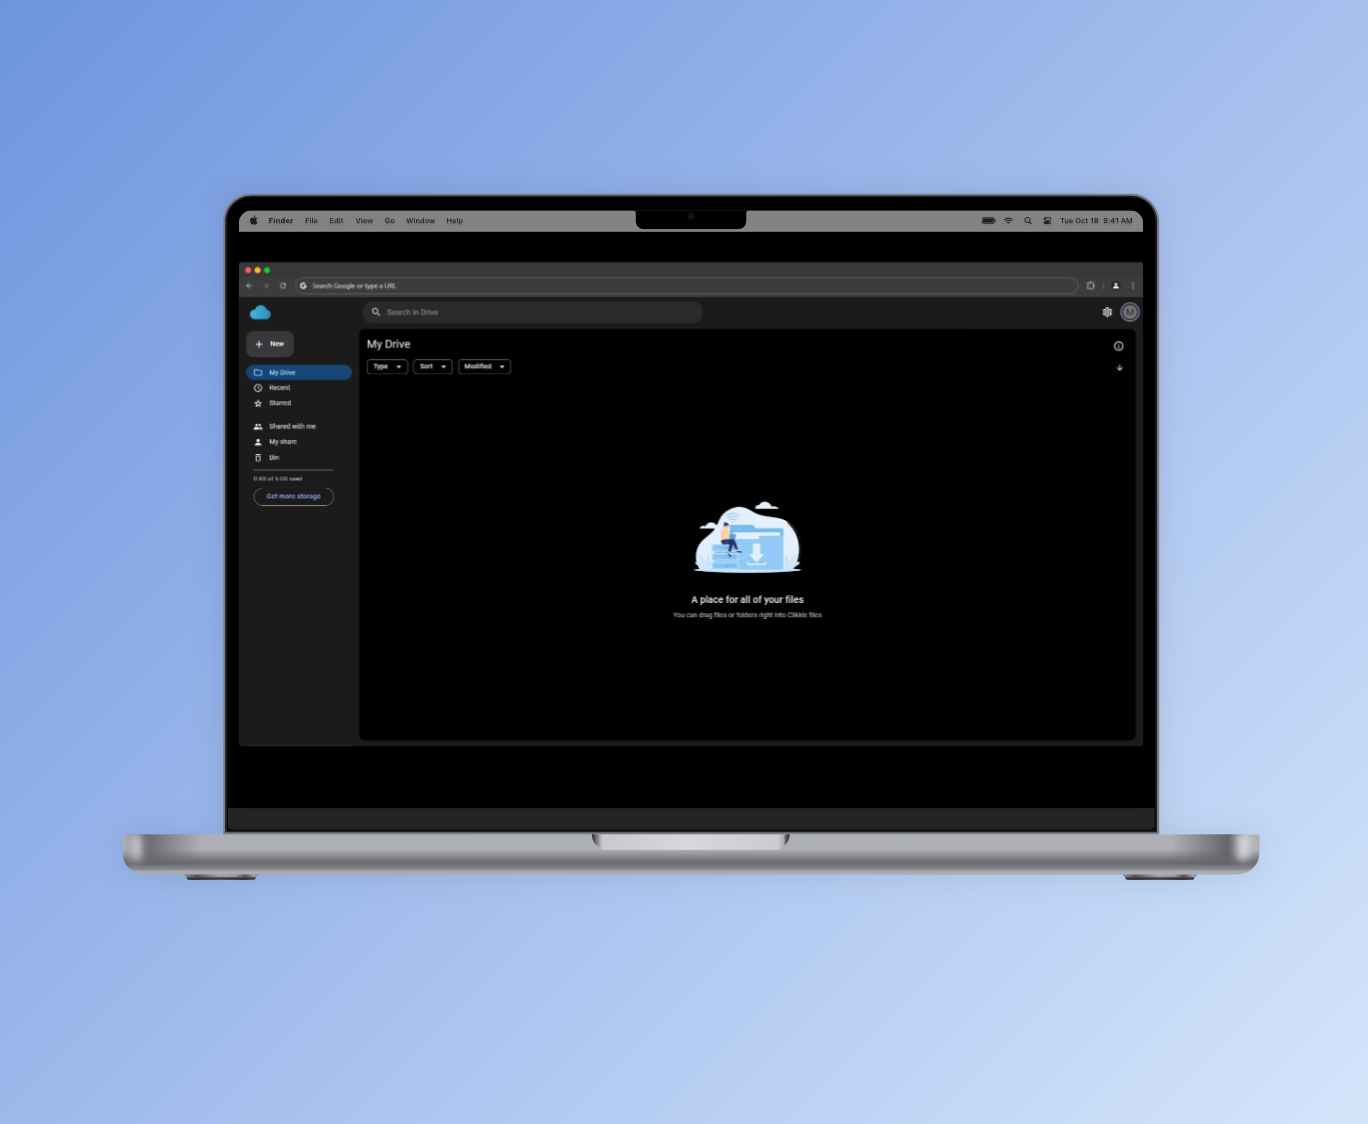
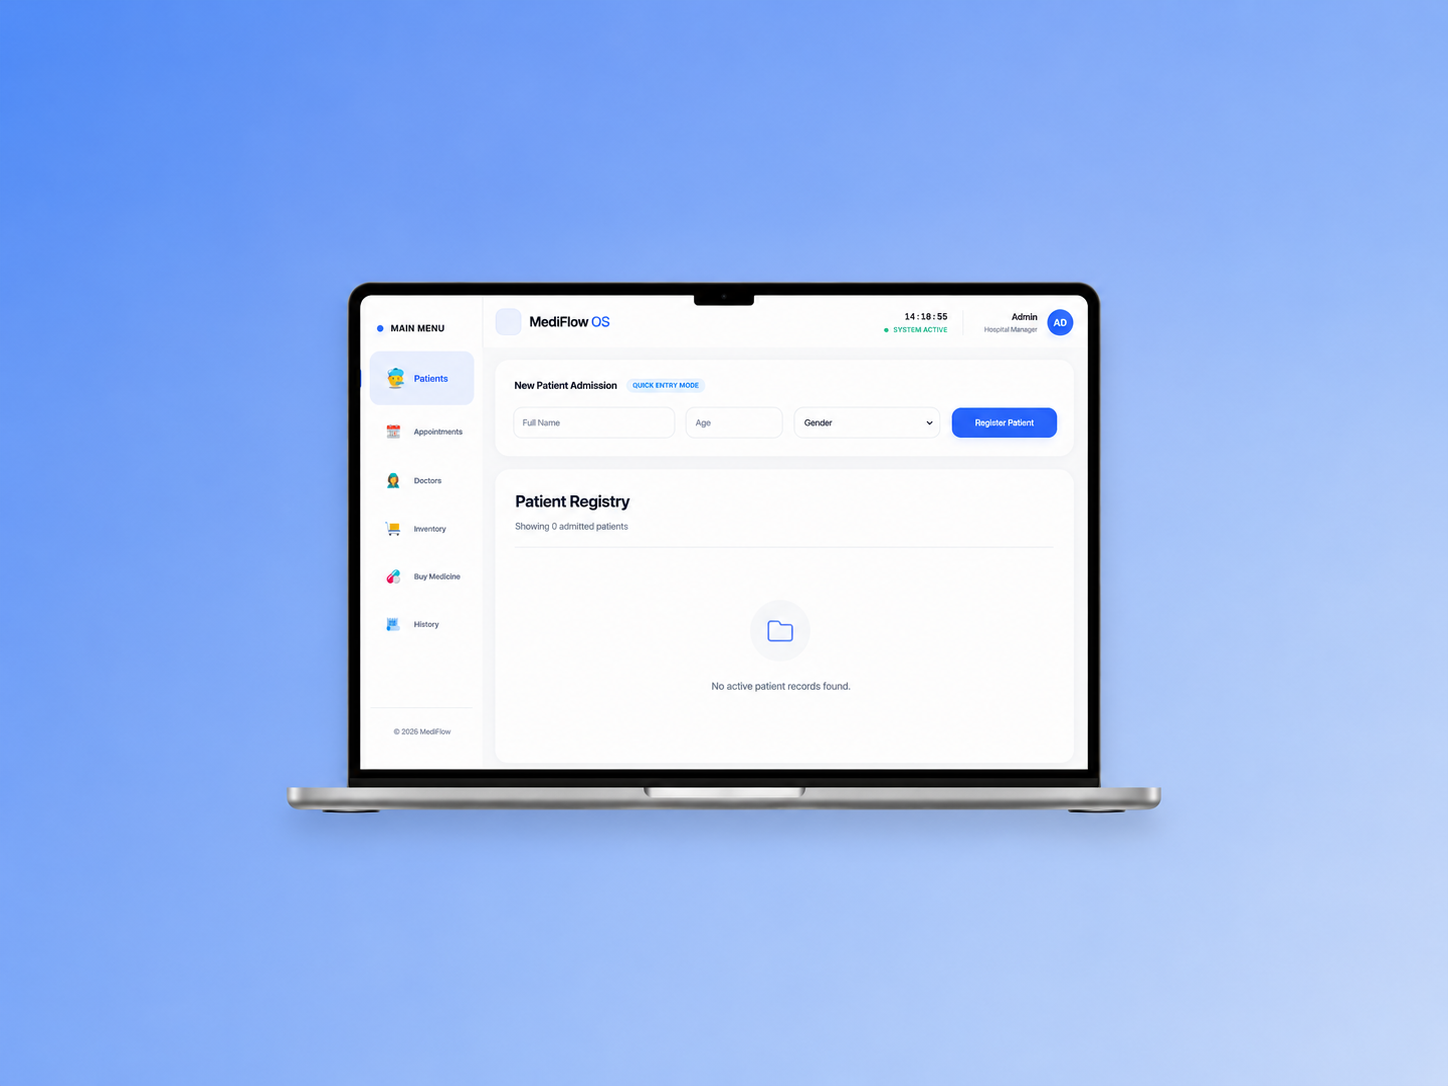
added project

diff --git a/src/comfolder/Project.jsx b/src/comfolder/Project.jsx
@@ -1,37 +1,262 @@
-import React from "react";
+import React, { useState } from "react";
 
 export default function Project() {
+const [ishoveredgithub, setIshoveredgithub] = useState(false);
+
+  function handleMouseEntergithub() {
+    setIshoveredgithub(true);
+  }
+  function handleMouseLeavegithub() {
+    setIshoveredgithub(false);
+  }
   return (
-    
-    <div className=" items-center  justify-center md:justify-center md:items-center min-w-80vw pb-25 flex overflow-x-hidden min-h-[280vh] bg-[#000000]">
-      <div className="flex mt-50 flex-col gap-15 items-center ">
-        <div className="w-md mt-14  flex flex-col items-center justify-center">
+    <div className="items-center justify-center md:justify-center md:items-center min-w-80vw pb-25 flex overflow-x-hidden min-h-[280vh] bg-[#000000]">
+      <div className="flex mt-50 flex-col gap-15 items-center">
+
+        {/* Heading */}
+        <div className="w-md mt-14 flex flex-col items-center justify-center">
           <h3 className="text-[#9C9C9C] tracking-widest outfit text-3.5 text-uppercase">
             FEATURED CASE STUDIES
           </h3>
-          <h2 className="outfit text-white text-[3rem]  md:text-[3.37rem]">
-           <span className="text-glow"> Curated</span>{" "}
-            <span className=" moving-bg-text nyght font-semibold ">work</span>
+
+          <h2 className="outfit text-white text-[3rem] md:text-[3.37rem]">
+            <span className="text-glow"> Curated</span>{" "}
+            <span className="moving-bg-text nyght font-semibold">
+              work
+            </span>
           </h2>
         </div>
+
+        {/* Projects */}
         <div className="min-w-screen justify-center items-center md:items-center flex flex-col py-8 gap-14 min-h-xl">
+
+          {/* ===================== MediFlow ===================== */}
+
           <div className="flex gap-4 md:justify-center w-[90vw] flex-col md:flex-row min-w-[60vw] md:h-[426.23px]">
-  <div className="w-full md:w-[23.81rem] h-75 md:h-[26.63rem] rounded-t-3xl md:rounded-l-3xl border-2 border-[#EDEDED0D] bg-[url(./assets/mac.png)] bg-size-[120%_110%] bg-center"></div>
 
-  <div className="w-full md:w-199 h-75 md:h-[26.63rem] rounded-b-3xl md:rounded-r-3xl border-2 border-[#333333]"></div>
-</div>
+            {/* Image */}
+            <div className="w-full md:w-[23.81rem] h-75 md:h-[26.63rem]  rounded-t-3xl rounded-b-none md:rounded-l-3xl md:rounded-r-none border-2 border-[#EDEDED0D] bg-[url(./assets/mac.webp)] bg-cover bg-center"></div>
 
-          <div className="w-[90vw] flex gap-4 md:items-center flex-col-reverse  md:flex-row  md:w-307 md:h-[426.23px]">
-  <div className="w-full md:w-199 h-75 md:h-[426.23px] rounded-b-3xl md:rounded-l-3xl border-2 border-[#333333]"></div>
+            {/* Content */}
+            <div className="w-full md:w-199 h-auto md:h-[26.63rem] rounded-b-3xl rounded-t-none md:rounded-r-3xl md:rounded-l-none border-2 border-[#333333] p-8 md:p-10 flex flex-col justify-between">
 
-  <div className="w-full md:w-[381.59px] h-75 md:h-[426.23px] rounded-t-3xl md:rounded-r-3xl border-2 border-[#EDEDED0D] bg-[url(./assets/messenger.jpg)] bg-cover bg-center"></div>
-</div>
+              <div className="flex flex-col gap-5">
+
+                <div>
+                  <h2 className="text-white text-[2.3rem] md:text-[42px] nyght font-semibold">
+                    MediFlow
+                  </h2>
+
+                  <p className="text-[#9C9C9C] outfit text-[15px] md:text-[16px] leading-[28px] md:leading-[30px] mt-4 max-w-[95%]">
+                    A minimal Hospital Management System focused on core
+                    functionality like patient records, appointments, and
+                    workflow management using React and LocalStorage.
+                  </p>
+                </div>
+
+                <div className="flex gap-3 flex-wrap">
+
+                  <span className="px-4 py-2 rounded-full border border-[#333333] text-[#CFCFCF] text-sm outfit">
+                    React
+                  </span>
+
+                  <span className="px-4 py-2 rounded-full border border-[#333333] text-[#CFCFCF] text-sm outfit">
+                    LocalStorage
+                  </span>
+
+                </div>
+              </div>
+
+              <div className="flex items-center gap-4 mt-8">
+<a href="https://hms-mediflow.vercel.app/" target="_blank">
+                <button className="px-6 py-3 rounded-full bg-white text-black outfit text-sm font-medium hover:scale-105 duration-300">
+                  View Project
+                </button>
+</a>
+                {/* Github SVG */}
+                <div className="w-12 h-12 rounded-full border border-[#333333] flex items-center justify-center cursor-pointer text-[#9C9C9C]">
+                <a target="_blank" href="https://github.com/developer-kaifsaifi">
+              <svg
+                className="cursor-pointer"
+                onMouseEnter={handleMouseEntergithub}
+                onMouseLeave={handleMouseLeavegithub}
+                fill={ishoveredgithub ? "#ffffff" : "currentColor"}
+                viewBox="0 0 256 256"
+                fontSize="22"
+                height="1em"
+                width="1em"
+                xmlns="http://www.w3.org/2000/svg"
+              >
+                <path d="M206.13,75.92A57.79,57.79,0,0,0,201.2,29a6,6,0,0,0-5.2-3,57.77,57.77,0,0,0-47,24H123A57.77,57.77,0,0,0,76,26a6,6,0,0,0-5.2,3,57.79,57.79,0,0,0-4.93,46.92A55.88,55.88,0,0,0,58,104v8a54.06,54.06,0,0,0,50.45,53.87A37.85,37.85,0,0,0,98,192v10H72a26,26,0,0,1-26-26A38,38,0,0,0,8,138a6,6,0,0,0,0,12,26,26,0,0,1,26,26,38,38,0,0,0,38,38H98v18a6,6,0,0,0,12,0V192a26,26,0,0,1,52,0v40a6,6,0,0,0,12,0V192a37.85,37.85,0,0,0-10.45-26.13A54.06,54.06,0,0,0,214,112v-8A55.88,55.88,0,0,0,206.13,75.92ZM202,112a42,42,0,0,1-42,42H112a42,42,0,0,1-42-42v-8a43.86,43.86,0,0,1,7.3-23.69,6,6,0,0,0,.81-5.76,45.85,45.85,0,0,1,1.43-36.42,45.85,45.85,0,0,1,35.23,21.1A6,6,0,0,0,119.83,62h32.34a6,6,0,0,0,5.06-2.76,45.83,45.83,0,0,1,35.23-21.11,45.85,45.85,0,0,1,1.43,36.42,6,6,0,0,0,.79,5.74A43.78,43.78,0,0,1,202,104Z"></path>
+              </svg>
+            </a>
+                </div>
+
+              </div>
+            </div>
+          </div>
+
+
+          {/* ===================== DigiFlow ===================== */}
+
+          <div className="w-[90vw] flex gap-4 md:items-center flex-col-reverse md:flex-row md:w-307 md:h-[426.23px]">
+
+            {/* Content */}
+            <div className="w-full md:w-199 h-auto md:h-[426.23px] rounded-b-3xl rounded-t-none md:rounded-l-3xl md:rounded-r-none border-2 border-[#333333] p-8 md:p-10 flex flex-col justify-between">
+
+              <div className="flex flex-col gap-5">
+
+                <div>
+                  <h2 className="text-white text-[2.3rem] md:text-[42px] nyght font-semibold">
+                    DigiFlow
+                  </h2>
+
+                  <p className="text-[#9C9C9C] outfit text-[15px] md:text-[16px] leading-[28px] md:leading-[30px] mt-4 max-w-[95%]">
+                    A minimal Task Management System built using the MERN
+                    stack with Framer Motion animations, focused on task
+                    organization, workflow handling, and smooth user
+                    interactions.
+                  </p>
+                </div>
+
+                <div className="flex gap-3 flex-wrap">
+
+                  <span className="px-4 py-2 rounded-full border border-[#333333] text-[#CFCFCF] text-sm outfit">
+                    MongoDB
+                  </span>
+
+                  <span className="px-4 py-2 rounded-full border border-[#333333] text-[#CFCFCF] text-sm outfit">
+                    Express
+                  </span>
+
+                  <span className="px-4 py-2 rounded-full border border-[#333333] text-[#CFCFCF] text-sm outfit">
+                    React
+                  </span>
+
+                  <span className="px-4 py-2 rounded-full border border-[#333333] text-[#CFCFCF] text-sm outfit">
+                    Node.js
+                  </span>
+
+                  <span className="px-4 py-2 rounded-full border border-[#333333] text-[#CFCFCF] text-sm outfit">
+                    Framer Motion
+                  </span>
+
+                </div>
+              </div>
+
+              <div className="flex items-center gap-4 mt-8">
+<a href="https://digiflow-chi.vercel.app/" target="_blank">
+                <button className="px-6 py-3 rounded-full bg-white text-black outfit text-sm font-medium hover:scale-105 duration-300">
+                  View Project
+                </button>
+</a>
+                {/* Github SVG */}
+                <div className="w-12 h-12 rounded-full border border-[#333333] text-[#9C9C9C] flex items-center justify-center cursor-pointer">
+                <a target="_blank" href="https://github.com/developer-kaifsaifi">
+              <svg
+                className="cursor-pointer"
+                onMouseEnter={handleMouseEntergithub}
+                onMouseLeave={handleMouseLeavegithub}
+                fill={ishoveredgithub ? "#ffffff" : "currentColor"}
+                viewBox="0 0 256 256"
+                fontSize="22"
+                height="1em"
+                width="1em"
+                xmlns="http://www.w3.org/2000/svg"
+              >
+                <path d="M206.13,75.92A57.79,57.79,0,0,0,201.2,29a6,6,0,0,0-5.2-3,57.77,57.77,0,0,0-47,24H123A57.77,57.77,0,0,0,76,26a6,6,0,0,0-5.2,3,57.79,57.79,0,0,0-4.93,46.92A55.88,55.88,0,0,0,58,104v8a54.06,54.06,0,0,0,50.45,53.87A37.85,37.85,0,0,0,98,192v10H72a26,26,0,0,1-26-26A38,38,0,0,0,8,138a6,6,0,0,0,0,12,26,26,0,0,1,26,26,38,38,0,0,0,38,38H98v18a6,6,0,0,0,12,0V192a26,26,0,0,1,52,0v40a6,6,0,0,0,12,0V192a37.85,37.85,0,0,0-10.45-26.13A54.06,54.06,0,0,0,214,112v-8A55.88,55.88,0,0,0,206.13,75.92ZM202,112a42,42,0,0,1-42,42H112a42,42,0,0,1-42-42v-8a43.86,43.86,0,0,1,7.3-23.69,6,6,0,0,0,.81-5.76,45.85,45.85,0,0,1,1.43-36.42,45.85,45.85,0,0,1,35.23,21.1A6,6,0,0,0,119.83,62h32.34a6,6,0,0,0,5.06-2.76,45.83,45.83,0,0,1,35.23-21.11,45.85,45.85,0,0,1,1.43,36.42,6,6,0,0,0,.79,5.74A43.78,43.78,0,0,1,202,104Z"></path>
+              </svg>
+            </a>
+                </div>
+
+              </div>
+            </div>
+
+            {/* Image */}
+            <div className="w-full md:w-[381.59px] h-75 md:h-[426.23px] rounded-t-3xl rounded-b-none md:rounded-r-3xl md:rounded-l-none border-2 border-[#EDEDED0D] bg-[url(./assets/digi.webp)] bg-cover bg-no-repeat bg-center"></div>
+          </div>
+
+
+          {/* ===================== Thread & Grace ===================== */}
 
           <div className="flex gap-4 md:items-center flex-col md:flex-row w-[90vw] md:w-307 md:h-[426.23px]">
-  <div className="w-full md:w-[381.59px] h-75 md:h-[426.23px] rounded-t-3xl md:rounded-l-3xl border-2 border-[#EDEDED0D] bg-[url(./assets/pc.png)] bg-center bg-no-repeat bg-size-[99%_99%]"></div>
 
-  <div className="w-full md:w-199 h-75 md:h-[426.23px] rounded-b-3xl md:rounded-r-3xl border-2 border-[#333333]"></div>
-</div>
+            {/* Image */}
+            <div className="w-full md:w-[381.59px] h-75 md:h-[426.23px] rounded-t-3xl rounded-b-none md:rounded-l-3xl md:rounded-r-none border-2 border-[#EDEDED0D] bg-[url(./assets/pc.png)] bg-center bg-no-repeat bg-size-[99%_99%]"></div>
+
+            {/* Content */}
+            <div className="w-full md:w-199 h-auto md:h-[426.23px] rounded-b-3xl rounded-t-none md:rounded-r-3xl md:rounded-l-none border-2 border-[#333333] p-8 md:p-10 flex flex-col justify-between">
+
+              <div className="flex flex-col gap-5">
+
+                <div>
+                  <h2 className="text-white text-[2.3rem] md:text-[42px] nyght font-semibold">
+                    Thread & Grace
+                  </h2>
+
+                  <p className="text-[#9C9C9C] outfit text-[15px] md:text-[16px] leading-[28px] md:leading-[30px] mt-4 max-w-[95%]">
+                    A MERN-based eCommerce platform with email verification,
+                    secure authentication, order confirmation emails, and
+                    deployment on Vercel using Nodemailer and AlwaysData SMTP.
+                  </p>
+                </div>
+
+                <div className="flex gap-3 flex-wrap">
+
+                  <span className="px-4 py-2 rounded-full border border-[#333333] text-[#CFCFCF] text-sm outfit">
+                    MongoDB
+                  </span>
+
+                  <span className="px-4 py-2 rounded-full border border-[#333333] text-[#CFCFCF] text-sm outfit">
+                    Express
+                  </span>
+
+                  <span className="px-4 py-2 rounded-full border border-[#333333] text-[#CFCFCF] text-sm outfit">
+                    React
+                  </span>
+
+                  <span className="px-4 py-2 rounded-full border border-[#333333] text-[#CFCFCF] text-sm outfit">
+                    Node.js
+                  </span>
+
+                  <span className="px-4 py-2 rounded-full border border-[#333333] text-[#CFCFCF] text-sm outfit">
+                    Nodemailer
+                  </span>
+
+                  <span className="px-4 py-2 rounded-full border border-[#333333] text-[#CFCFCF] text-sm outfit">
+                    Vercel
+                  </span>
+
+                </div>
+              </div>
+
+              <div className="flex items-center gap-4 mt-8">
+<a href="https://ecommerce-frontend-mg.vercel.app/" target="_blank">
+                <button className="px-6 py-3 rounded-full bg-white text-black outfit text-sm font-medium hover:scale-105 duration-300">
+                  View Project
+                </button>
+</a>
+                {/* Github SVG */}
+                <div className="w-12 h-12 rounded-full border border-[#333333] flex items-center justify-center cursor-pointer text-[#9C9C9C]">
+               <a target="_blank" href="https://github.com/developer-kaifsaifi">
+              <svg
+                className="cursor-pointer"
+                onMouseEnter={handleMouseEntergithub}
+                onMouseLeave={handleMouseLeavegithub}
+                fill={ishoveredgithub ? "#ffffff" : "currentColor"}
+                viewBox="0 0 256 256"
+                fontSize="22"
+                height="1em"
+                width="1em"
+                xmlns="http://www.w3.org/2000/svg"
+              >
+                <path d="M206.13,75.92A57.79,57.79,0,0,0,201.2,29a6,6,0,0,0-5.2-3,57.77,57.77,0,0,0-47,24H123A57.77,57.77,0,0,0,76,26a6,6,0,0,0-5.2,3,57.79,57.79,0,0,0-4.93,46.92A55.88,55.88,0,0,0,58,104v8a54.06,54.06,0,0,0,50.45,53.87A37.85,37.85,0,0,0,98,192v10H72a26,26,0,0,1-26-26A38,38,0,0,0,8,138a6,6,0,0,0,0,12,26,26,0,0,1,26,26,38,38,0,0,0,38,38H98v18a6,6,0,0,0,12,0V192a26,26,0,0,1,52,0v40a6,6,0,0,0,12,0V192a37.85,37.85,0,0,0-10.45-26.13A54.06,54.06,0,0,0,214,112v-8A55.88,55.88,0,0,0,206.13,75.92ZM202,112a42,42,0,0,1-42,42H112a42,42,0,0,1-42-42v-8a43.86,43.86,0,0,1,7.3-23.69,6,6,0,0,0,.81-5.76,45.85,45.85,0,0,1,1.43-36.42,45.85,45.85,0,0,1,35.23,21.1A6,6,0,0,0,119.83,62h32.34a6,6,0,0,0,5.06-2.76,45.83,45.83,0,0,1,35.23-21.11,45.85,45.85,0,0,1,1.43,36.42,6,6,0,0,0,.79,5.74A43.78,43.78,0,0,1,202,104Z"></path>
+              </svg>
+            </a> </div>
+
+              </div>
+            </div>
+          </div>
 
         </div>
       </div>